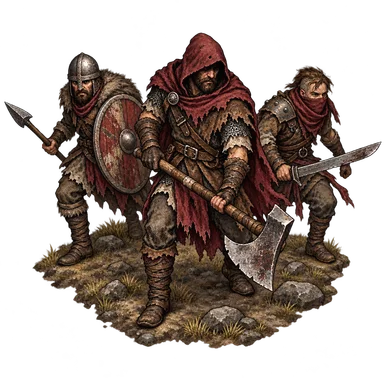
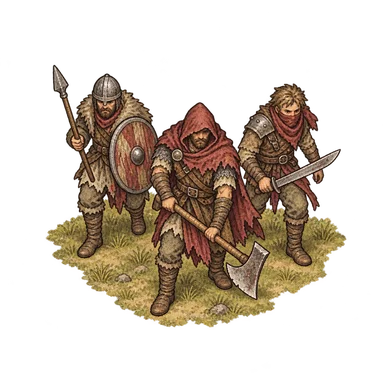
Match NPC artwork to south-facing medieval atlas style

diff --git a/docs/CROWNLANDS_MASTER_DEVELOPMENT_SPECIFICATION.md b/docs/CROWNLANDS_MASTER_DEVELOPMENT_SPECIFICATION.md
@@ -1202,6 +1202,7 @@ Confirmed September 27, 2026. **Status:** `IN DEVELOPMENT`; merge and deployment
 - Each New Lands map has 12 slots: four uniform levels 1–10, four 11–39, four 40–79. Each Core map has one uniform level 80–100 slot, at most 25 bosses. Defeated solo enemies become eligible for replacement after two minutes; bosses after thirty minutes. A bounded minute scheduler places replacements at new valid points on the same map, retrying blocked terrain, routes, buildings, scenery, objectives and NPC clearance. No launch reservations or automatic target expiry.
 - NPCs are shared, stationary, non-aggressive and cannot be captured or occupied. Each spawn has an immutable identity. Server arrival time then army ID determines encounter order. Later armies never attack a replacement spawn. Ordinary departure bonuses, combat, losses, casualty recovery and return rules apply; NPCs have no walls and exactly 1 defense per defender. Failed attacks leave surviving defenders and award no marauder Gold or XP. Victory awards loot immediately and returns survivors. Encounters create no ownership, objective bonuses, capture credit or PvP credit. Preserve neutral-PvE Peace Shield behavior.
 - Solo attacks use one army with optional clan membership. Boss attacks require a clan rally with 2–20 unique participants including its creator. Retain five active rallies per clan, officer/leader permissions, membership validation, assembly defense, withdrawal, recall and return rules. Tower rallies retain their separate three-member minimum.
+- NPC artwork follows the supplied medieval-atlas inspiration: fine brown ink outlines, restrained painted shading, muted olive/ochre terrain and burgundy cloth. Both marauders and bosses face south toward the bottom of the map, viewed from above to match cities and buildings.
 
 | Level | Defenders | Gold pool | Hero XP pool |
 |---|---:|---:|---:|
